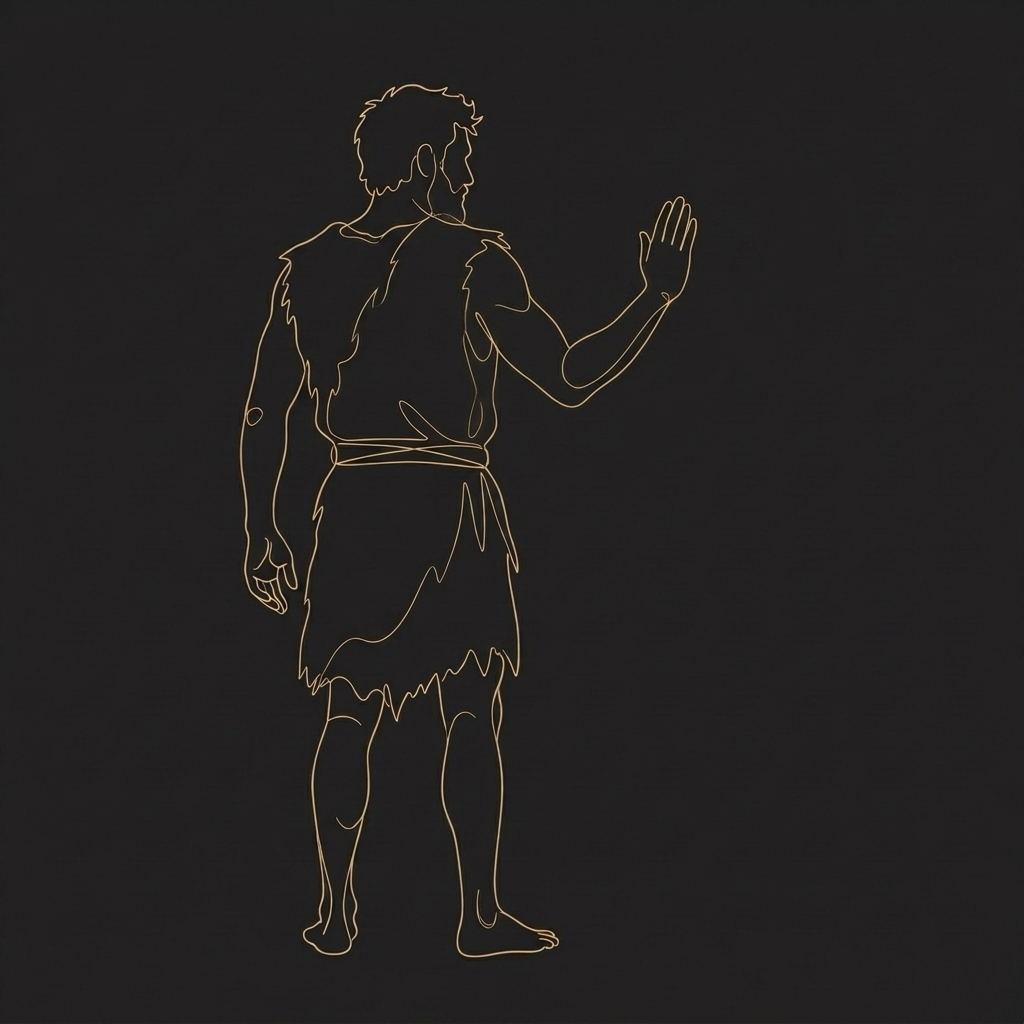
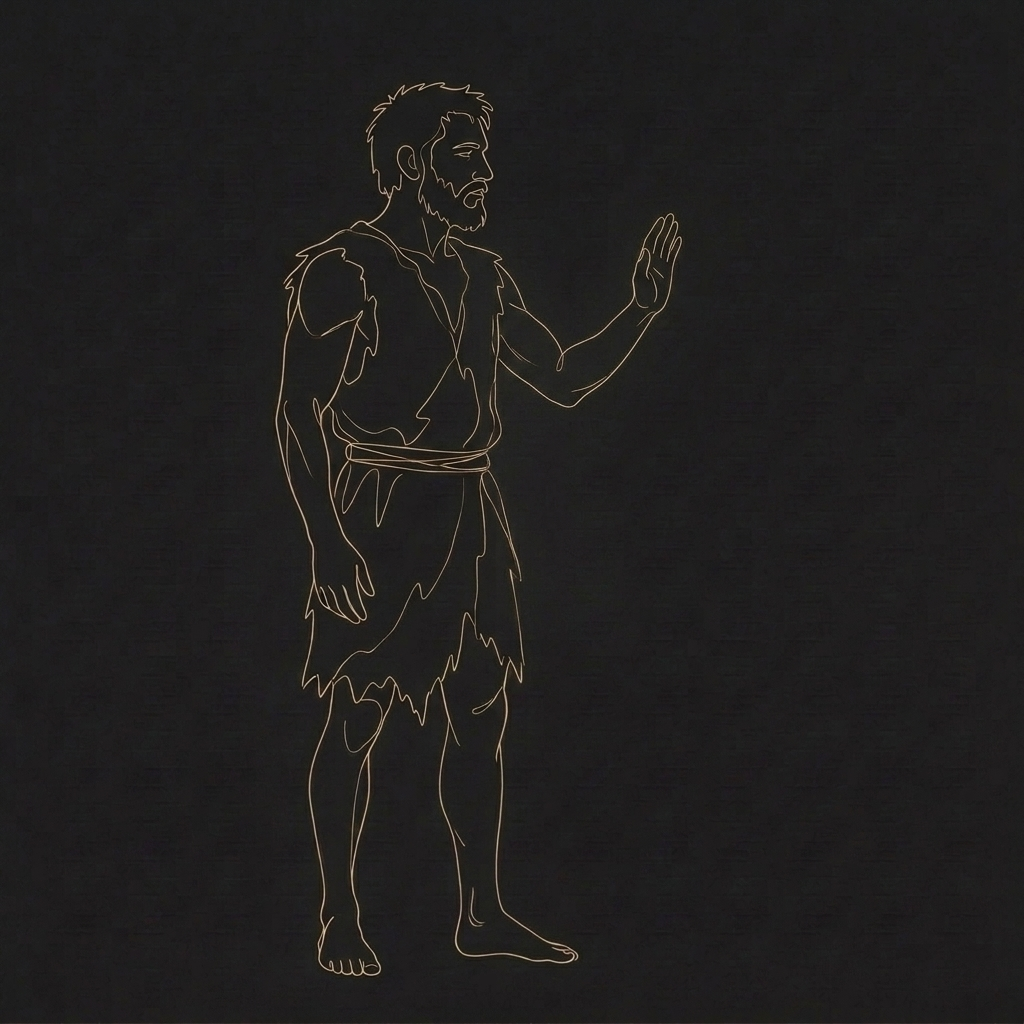
Recap walk: title "A Walk Through John"; intentional facing, pilot lessons
Opening title changed. Builder rule now requires a reason for each figure's
direction. L7 John the Baptist side view; L10 nearest disciple looks back;
L28 woman three-quarter toward Jesus, eyes lowered.

Claude-Session: https://claude.ai/code/session_01PUXW98g7GeRrNVaktcGhRj

diff --git a/tools/recap-video/places/main.js b/tools/recap-video/places/main.js
@@ -137,7 +137,7 @@ function overlay(t) { let cur = places[0]; for (const o of places) if (t >= o.T.
     ls.forEach((L, i) => { const ti = beatAt(Q.sayBeat + i), a = seg(t, ti, ti + 0.22) * so; if (a > 0) txt(out, L, 540, y0 + i * SAY_LEAD, SAY_SIZE, { color: GOLD_HI, alpha: a, glow: 10 }); }); }
   // the opening title, one beat-paced line at a time; the only credit in the film
   if (places[0].kind === 'open') { const o = places[0], b = i => beatAt(o.startBar * 4 + i), so = 1 - seg(t, o.T.end - bl / 2, o.T.end);
-    [['The Gospel of John', 300, 92, { color: GOLD_HI, glow: 18 }, 2], ['so far', 410, 54, { italic: true, color: GOLD }, 4], ['taught by Ben', 500, 36, { color: INK, spacing: 3 }, 6], ['31 lessons', 570, 30, { italic: true, color: GOLD }, 8]].forEach(([s, y, sz, st, bi]) => { const a = seg(t, b(bi), b(bi) + 0.4) * so; if (a > 0) txt(out, s, 540, y, sz, { ...st, alpha: a }); }); }
+    [['A Walk Through John', 300, 92, { color: GOLD_HI, glow: 18 }, 2], ['so far', 410, 54, { italic: true, color: GOLD }, 4], ['taught by Ben', 500, 36, { color: INK, spacing: 3 }, 6], ['31 lessons', 570, 30, { italic: true, color: GOLD }, 8]].forEach(([s, y, sz, st, bi]) => { const a = seg(t, b(bi), b(bi) + 0.4) * so; if (a > 0) txt(out, s, 540, y, sz, { ...st, alpha: a }); }); }
   if (LAST.kind === 'close') { const c = LAST, b0 = c.arriveBar * 4, s0 = beatAt(b0), so = 1 - openK(t) * 2.2; if (t >= s0 && so > 0) { backing(seg(t, s0, s0 + 0.3) * so, 420);
       txt(out, 'To be continued.', 540, 400, 88, { italic: true, color: GOLD_HI, glow: 16, alpha: seg(t, s0, s0 + 0.4) * so }); const s1 = beatAt(b0 + 4); txt(out, 'John 10 – 21 still ahead', 540, 492, 36, { color: GOLD, spacing: 2, alpha: seg(t, s1, s1 + 0.4) * so * 0.85 }); }
   }

diff --git a/tools/recap-video/places/l10.js b/tools/recap-video/places/l10.js
@@ -1,11 +1,12 @@
 // Lesson 10 (short stop): "come and see," passed from one ordinary person to the next. Up the road, a far figure from behind walks on; three
 // ordinary men strung out behind him. Each stops, turns back and holds out a hand to the one behind, one per beat, nearest last: that one is
 // holding it out to you. Then they go on, far to near, and you fall in behind the nearest. One detail: the nearest man's offered hand.
+// The nearest man, when he turns, is in three-quarter view looking back at you with a quiet face; the others and the far figure stay from behind.
 export default async function (P) {
   await P.loadArt();
   const Z = P.Z, L = P.beats(1), SP = 0.55, H = 3.3;
   const key = P.ev('key', 1, 1), turns = P.evs('turns back', 0, 3, 2, 1), goes = P.evs('goes on', 1, 2, 3, 1); turns.push(key);
-  const FEET = { walk1: 0.533, turn1: 0.394, walk2: 0.524, turn2: 0.638, walk3: 0.534, turn3: 0.371 };   // where the feet sit in each drawing, so the two poses share one spot
+  const FEET = { walk1: 0.533, turn1: 0.357, walk2: 0.524, turn2: 0.638, walk3: 0.534, turn3: 0.371 };   // where the feet sit in each drawing, so the two poses share one spot
   const men = [[3, 18, -1.55], [2, 11, 1.6], [1, 5, -1.05]].map(([n, d, off], i) => { const zs = Z - d, opt = { fadeNear: false, turn: false, sil: 0.5, gain: 1.6 };
     return { off, zs, stop: turns[i], back: goes[i], near: i === 2, walk: P.walker('walk' + n, 0, zs, false, H, opt), turn: P.walker('turn' + n, 0, zs, false, H, opt), kw: FEET['walk' + n], kt: FEET['turn' + n] }; });
   const HZ = Z - 27, he = P.walker('he', P.pathX(HZ), HZ, false, 3.1, { gain: 1.5 }), heLight = P.glow(P.pathX(HZ), 1.8, HZ - 0.2, 8, 0);

diff --git a/tools/recap-video/places/l7.js b/tools/recap-video/places/l7.js
@@ -1,13 +1,13 @@
 // Lesson 7: asked who he was, John the Baptist kept saying no. He was the voice pointing to Jesus. Three questioners hold out an open
 // hand in turn; a rough man beside the path raises one still palm and each lowers. On the key he points across your path to someone
-// far ahead. One detail: the pointing arm. No crowns, no titles drawn, no faces.
+// far ahead. One detail: the pointing arm. No crowns, no titles drawn. John is in side view with a quiet face; the questioners stay faceless.
 export default async function (P) {
   await P.loadArt();
-  const Z = P.Z, X = P.X, L = P.beats(1), JD = 6, JH = 4.1;
+  const Z = P.Z, X = P.X, L = P.beats(1), JD = 6, JH = 4.02;
   const offer = P.evs('offer', 0, 3, 3, 2), no = P.evs('no', 0, 4, 3, 2), key = P.ev('key', 2, 1);
   const o = { far: 26, near: 13, turn: false, fadeNear: false, sil: 0.95, gain: 1.45 };
-  const jr = P.art('jrest', X - 1.17, Z - JD, JH, { ...o, y0: -0.16, map2: 'jhand', gain: 1.6 });
-  const jp = P.art('jhand', X - 1.17, Z - JD, JH, { ...o, y0: -0.16, map2: 'jpoint', gain: 1.6 });
+  const jr = P.art('jrest', X - 1.17, Z - JD, JH, { ...o, y0: -0.075, map2: 'jhand', gain: 1.6 });
+  const jp = P.art('jhand', X - 1.17, Z - JD, JH, { ...o, y0: -0.075, map2: 'jpoint', gain: 1.6 });
   const q = [['q2', 1.57, 11, 3.95, false], ['q1', 1.98, 9.2, 3.8, true], ['q3', 1.62, 7.6, 3.85, false]]
     .map(([n, x, d, h, flip]) => P.art(n + 'a', X + x, Z - d, h, { ...o, y0: -0.04 * h, map2: n + 'b', flip }));
   const hz = Z - 30, hx = X + 3.2, he = P.walker('he', hx, hz, false, 3.5, { fog: false, fadeNear: false, gain: 1.7, sil: 0.9, turn: false });

diff --git a/tools/recap-video/places/l28.js b/tools/recap-video/places/l28.js
@@ -1,5 +1,6 @@
 // Lesson 28 (full moment): Jesus neither condemns the woman nor excuses her.
 // One detail: he stays stooped, marks in the dust, so the men can go unwatched. One at a time each sets his stone down and leaves. Only when they're gone does he stand and speak; only then she walks on.
+// The woman stands three-quarter toward him, so toward us, head lowered, with a quiet face. Jesus stays from behind; the accusers stay faceless.
 export default async function (P) {
   await P.loadArt();
   const X = P.X, Z = P.Z, cam = P.camera, L = P.beats(1), FINGER = 0.32, STONE = 0.88;

diff --git a/tools/recap-video/places/BUILDER-BRIEF.md b/tools/recap-video/places/BUILDER-BRIEF.md
@@ -12,7 +12,7 @@ lessons, or any older file (`walk*.html`, `places.js`, `places2.js`, `scene*.js`
 - **Use the tall screen.** Not a thin band across the middle. Big things, low and high. See the geometry table.
 - **Elegant adult line art.** Warm line on near-black. Never cartoon, never clip art, never a children's Bible.
 - **Never draw Jesus's face, or God.** Jesus only from far off or from behind (use the common `he`).
-- **People are mostly far off or from behind, and fade before they swell near the camera.**
+- **Which way every figure faces must be a choice with a reason (Jason, 11/1).** `heart/visuals/orientation.md` sets it per lesson. All people fade before they swell near the camera.
 - **No text in the art.** Words come only from the sentence, which you do not touch.
 - **Red is rare.** Only where the lesson needs it.
 - **Read that lesson's "Don't get this wrong" in `heart/lessons/lesson-N.md` first**, and the `heart/main-points.md` sentence.
